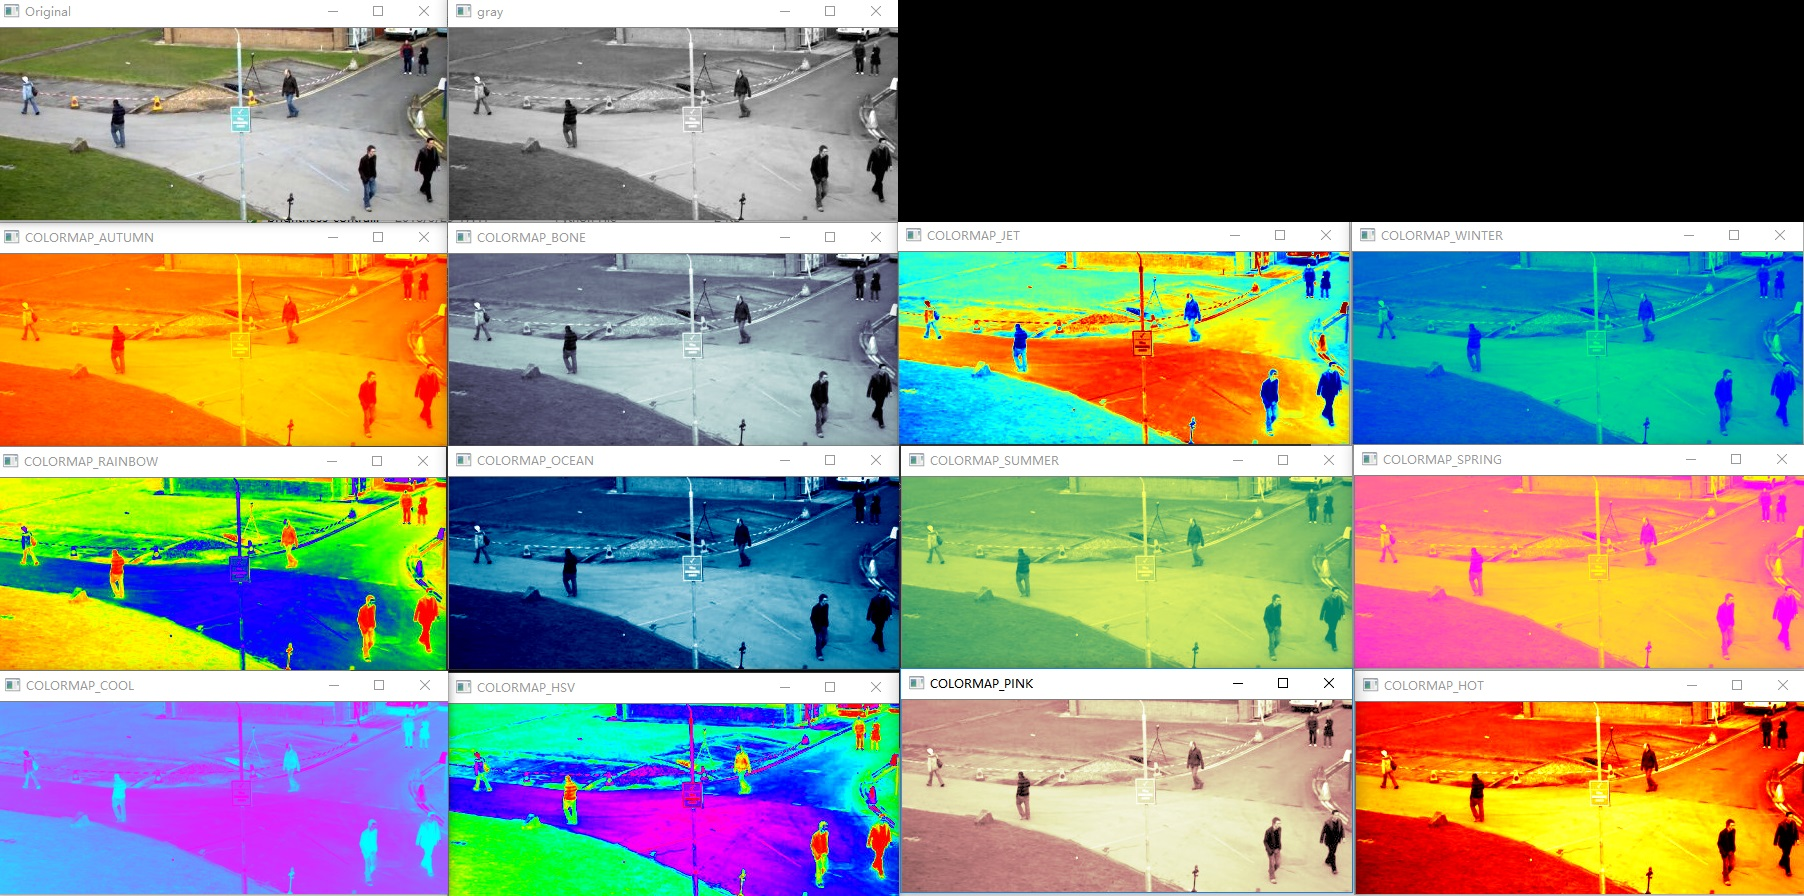
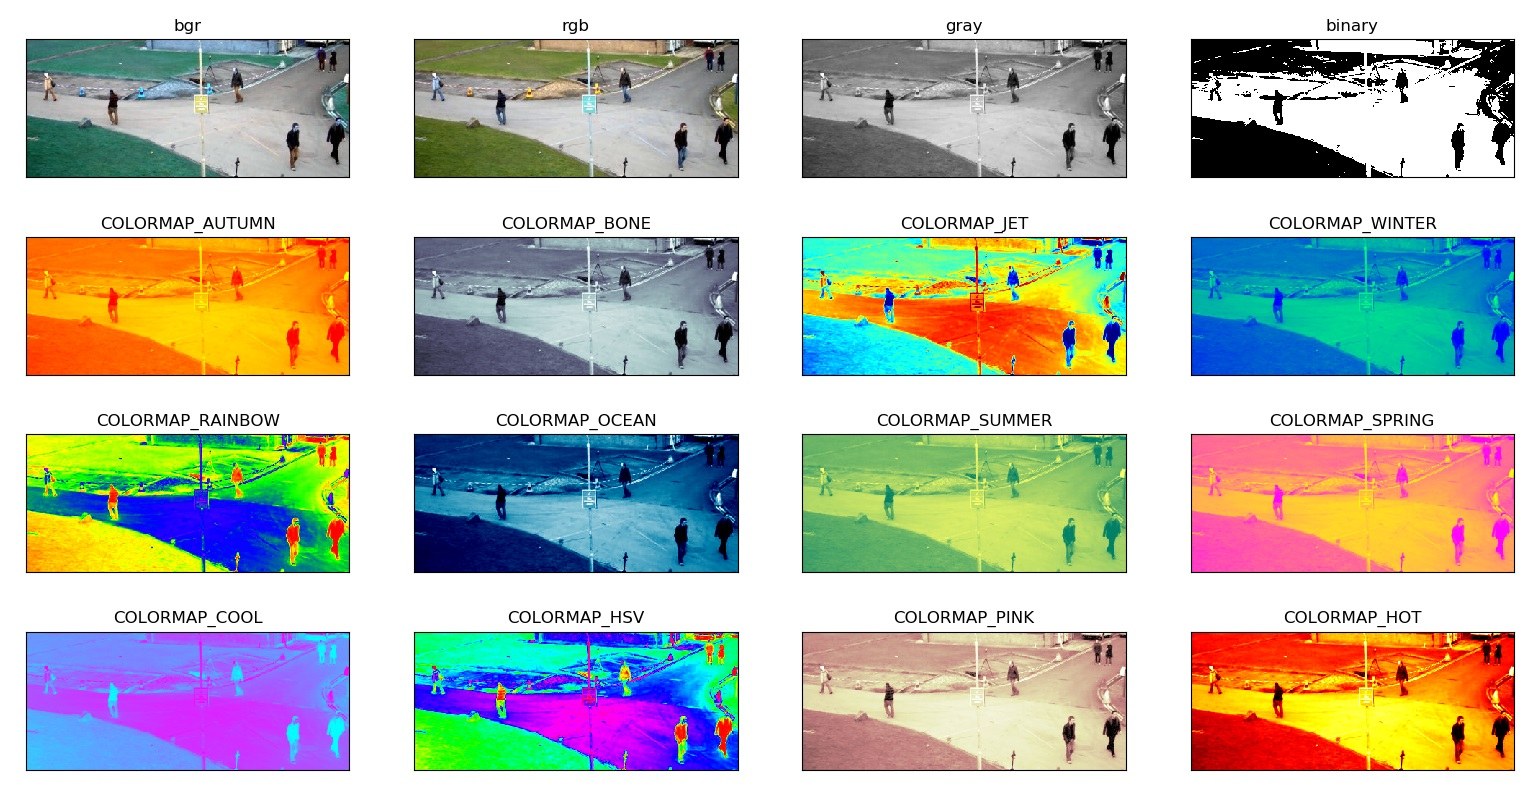
生成伪彩色图像

diff --git a/OpenCV/examples/pseudocolor.py b/OpenCV/examples/pseudocolor.py
@@ -3,24 +3,42 @@
 
 import cv2
 import numpy as np
+import matplotlib.pyplot as plt
 
-im_ori = cv2.imread("resframe.jpg", cv2.IMREAD_COLOR)
-im_gray = cv2.imread("resframe.jpg", cv2.IMREAD_GRAYSCALE)
-cv2.imshow("Original", im_ori)
-cv2.imshow("gray", im_gray)
+im_bgr = cv2.imread("resframe.jpg", cv2.IMREAD_COLOR)
+im_rgb = cv2.cvtColor(im_bgr, cv2.COLOR_BGR2RGB)
+im_gray = cv2.cvtColor(im_bgr, cv2.COLOR_BGR2GRAY)
+ret, thresh = cv2.threshold(im_gray, 127, 255,cv2.THRESH_BINARY)
 
-cv2.imshow("COLORMAP_AUTUMN", cv2.applyColorMap(im_gray, cv2.COLORMAP_AUTUMN))
-cv2.imshow("COLORMAP_BONE", cv2.applyColorMap(im_gray, cv2.COLORMAP_BONE))
-cv2.imshow("COLORMAP_JET", cv2.applyColorMap(im_gray, cv2.COLORMAP_JET))
-cv2.imshow("COLORMAP_WINTER", cv2.applyColorMap(im_gray, cv2.COLORMAP_WINTER))
-cv2.imshow("COLORMAP_RAINBOW", cv2.applyColorMap(im_gray, cv2.COLORMAP_RAINBOW))
-cv2.imshow("COLORMAP_OCEAN", cv2.applyColorMap(im_gray, cv2.COLORMAP_OCEAN))
-cv2.imshow("COLORMAP_SUMMER", cv2.applyColorMap(im_gray, cv2.COLORMAP_SUMMER))
-cv2.imshow("COLORMAP_SPRING", cv2.applyColorMap(im_gray, cv2.COLORMAP_SPRING))
-cv2.imshow("COLORMAP_COOL", cv2.applyColorMap(im_gray, cv2.COLORMAP_COOL))
-cv2.imshow("COLORMAP_HSV", cv2.applyColorMap(im_gray, cv2.COLORMAP_HSV))
-cv2.imshow("COLORMAP_PINK", cv2.applyColorMap(im_gray, cv2.COLORMAP_PINK))
-cv2.imshow("COLORMAP_HOT", cv2.applyColorMap(im_gray, cv2.COLORMAP_HOT))
+titles = [
+    'bgr','rgb','gray','binary',
+    'COLORMAP_AUTUMN','COLORMAP_BONE','COLORMAP_JET','COLORMAP_WINTER','COLORMAP_RAINBOW','COLORMAP_OCEAN',
+    'COLORMAP_SUMMER','COLORMAP_SPRING','COLORMAP_COOL','COLORMAP_HSV','COLORMAP_PINK','COLORMAP_HOT'
+]
 
+coloredImgs=[
+    cv2.applyColorMap(im_gray, cv2.COLORMAP_AUTUMN),
+    cv2.applyColorMap(im_gray, cv2.COLORMAP_BONE),
+    cv2.applyColorMap(im_gray, cv2.COLORMAP_JET),
+    cv2.applyColorMap(im_gray, cv2.COLORMAP_WINTER),
+    cv2.applyColorMap(im_gray, cv2.COLORMAP_RAINBOW),
+    cv2.applyColorMap(im_gray, cv2.COLORMAP_OCEAN),
+    cv2.applyColorMap(im_gray, cv2.COLORMAP_SUMMER),
+    cv2.applyColorMap(im_gray, cv2.COLORMAP_SPRING),
+    cv2.applyColorMap(im_gray, cv2.COLORMAP_COOL),
+    cv2.applyColorMap(im_gray, cv2.COLORMAP_HSV),
+    cv2.applyColorMap(im_gray, cv2.COLORMAP_PINK),
+    cv2.applyColorMap(im_gray, cv2.COLORMAP_HOT)
+]
 
-cv2.waitKey(0)
+images = [im_bgr,im_rgb,im_gray,thresh]
+for i in range(12):
+    images.append(cv2.cvtColor(coloredImgs[i], cv2.COLOR_BGR2RGB))
+
+for i in range(16):
+    plt.subplot(4,4,i+1),plt.imshow(images[i],'gray')
+    plt.title(titles[i])
+    plt.xticks([]),plt.yticks([])
+    
+plt.show()
+

diff --git a/OpenCV/生成伪彩色图像.md b/OpenCV/生成伪彩色图像.md
@@ -27,29 +27,45 @@ applyColorMap(im_gray, im_color, COLORMAP_HSV);
 
 import cv2
 import numpy as np
+import matplotlib.pyplot as plt
 
-im_ori = cv2.imread("resframe.jpg", cv2.IMREAD_COLOR)
-im_gray = cv2.imread("resframe.jpg", cv2.IMREAD_GRAYSCALE)
-cv2.imshow("Original", im_ori)
-cv2.imshow("gray", im_gray)
+im_bgr = cv2.imread("resframe.jpg", cv2.IMREAD_COLOR)
+im_rgb = cv2.cvtColor(im_bgr, cv2.COLOR_BGR2RGB)
+im_gray = cv2.cvtColor(im_bgr, cv2.COLOR_BGR2GRAY)
+ret, thresh = cv2.threshold(im_gray, 127, 255,cv2.THRESH_BINARY)
 
-cv2.imshow("COLORMAP_AUTUMN", cv2.applyColorMap(im_gray, cv2.COLORMAP_AUTUMN))
-cv2.imshow("COLORMAP_BONE", cv2.applyColorMap(im_gray, cv2.COLORMAP_BONE))
-cv2.imshow("COLORMAP_JET", cv2.applyColorMap(im_gray, cv2.COLORMAP_JET))
-cv2.imshow("COLORMAP_WINTER", cv2.applyColorMap(im_gray, cv2.COLORMAP_WINTER))
-cv2.imshow("COLORMAP_RAINBOW", cv2.applyColorMap(im_gray, cv2.COLORMAP_RAINBOW))
-cv2.imshow("COLORMAP_OCEAN", cv2.applyColorMap(im_gray, cv2.COLORMAP_OCEAN))
-cv2.imshow("COLORMAP_SUMMER", cv2.applyColorMap(im_gray, cv2.COLORMAP_SUMMER))
-cv2.imshow("COLORMAP_SPRING", cv2.applyColorMap(im_gray, cv2.COLORMAP_SPRING))
-cv2.imshow("COLORMAP_COOL", cv2.applyColorMap(im_gray, cv2.COLORMAP_COOL))
-cv2.imshow("COLORMAP_HSV", cv2.applyColorMap(im_gray, cv2.COLORMAP_HSV))
-cv2.imshow("COLORMAP_PINK", cv2.applyColorMap(im_gray, cv2.COLORMAP_PINK))
-cv2.imshow("COLORMAP_HOT", cv2.applyColorMap(im_gray, cv2.COLORMAP_HOT))
+titles = [
+    'bgr','rgb','gray','binary',
+    'COLORMAP_AUTUMN','COLORMAP_BONE','COLORMAP_JET','COLORMAP_WINTER','COLORMAP_RAINBOW','COLORMAP_OCEAN',
+    'COLORMAP_SUMMER','COLORMAP_SPRING','COLORMAP_COOL','COLORMAP_HSV','COLORMAP_PINK','COLORMAP_HOT'
+]
 
+coloredImgs=[
+    cv2.applyColorMap(im_gray, cv2.COLORMAP_AUTUMN),
+    cv2.applyColorMap(im_gray, cv2.COLORMAP_BONE),
+    cv2.applyColorMap(im_gray, cv2.COLORMAP_JET),
+    cv2.applyColorMap(im_gray, cv2.COLORMAP_WINTER),
+    cv2.applyColorMap(im_gray, cv2.COLORMAP_RAINBOW),
+    cv2.applyColorMap(im_gray, cv2.COLORMAP_OCEAN),
+    cv2.applyColorMap(im_gray, cv2.COLORMAP_SUMMER),
+    cv2.applyColorMap(im_gray, cv2.COLORMAP_SPRING),
+    cv2.applyColorMap(im_gray, cv2.COLORMAP_COOL),
+    cv2.applyColorMap(im_gray, cv2.COLORMAP_HSV),
+    cv2.applyColorMap(im_gray, cv2.COLORMAP_PINK),
+    cv2.applyColorMap(im_gray, cv2.COLORMAP_HOT)
+]
 
-cv2.waitKey(0)
+images = [im_bgr,im_rgb,im_gray,thresh]
+for i in range(12):
+    images.append(cv2.cvtColor(coloredImgs[i], cv2.COLOR_BGR2RGB))
+
+for i in range(16):
+    plt.subplot(4,4,i+1),plt.imshow(images[i],'gray')
+    plt.title(titles[i])
+    plt.xticks([]),plt.yticks([])
+
+plt.show()
 
 ```
 ### 效果
 ![image](https://raw.githubusercontent.com/twangjie/mydoc/master/OpenCV/examples/result/pseudocolor.jpg)
-
